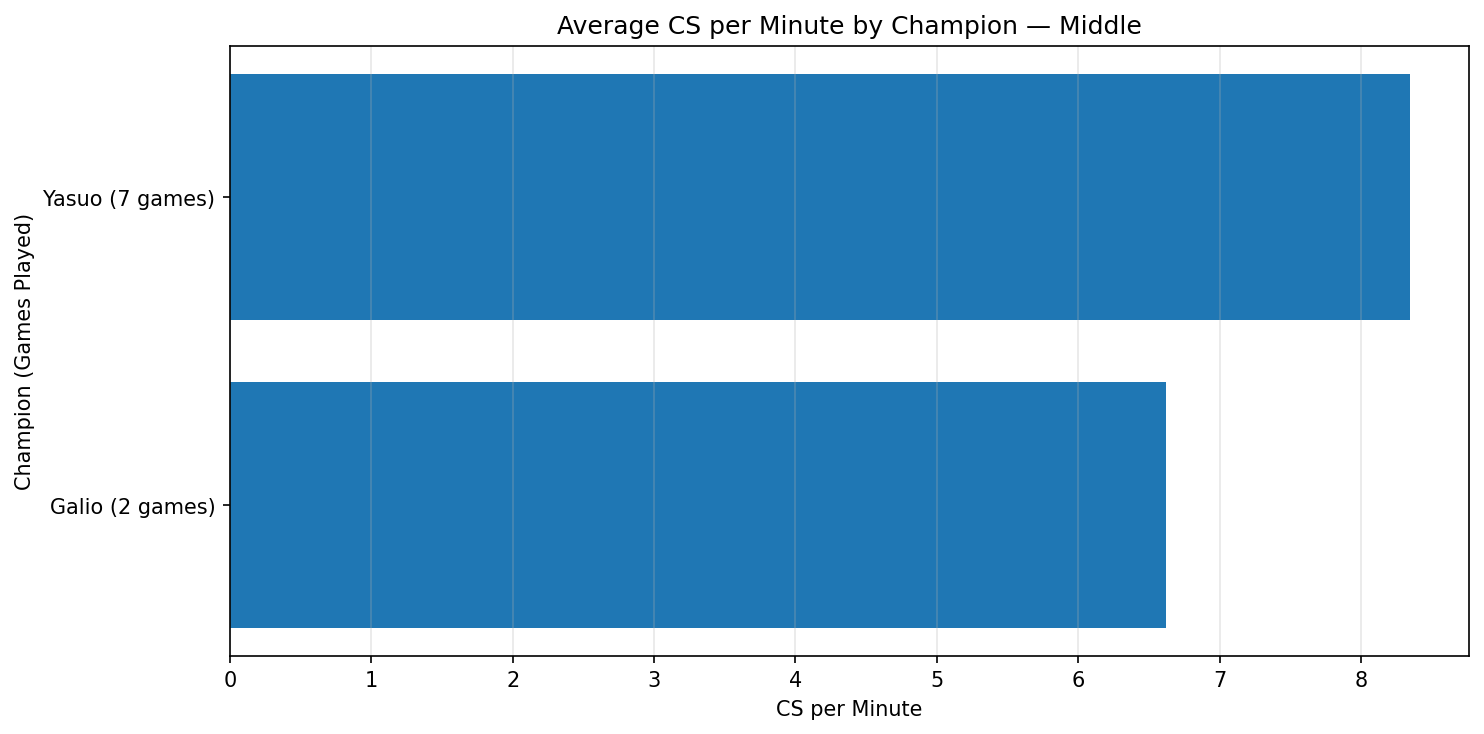
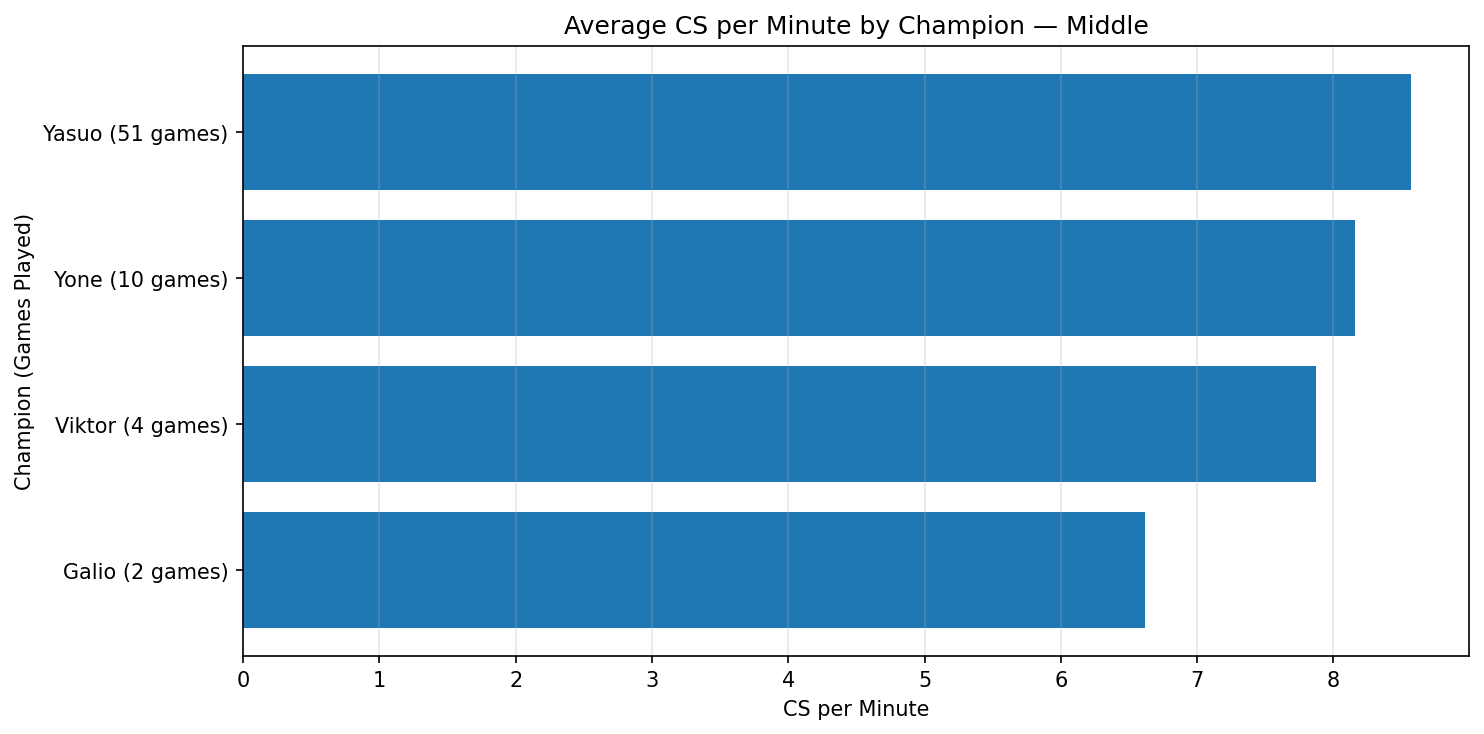
Update analysis for 100 ranked matches

diff --git a/import_ranked_matches.py b/import_ranked_matches.py
@@ -21,6 +21,27 @@ if not api_key:
     raise ValueError("API key not found. Check your .env file.")
 
 headers = {"X-Riot-Token": api_key}
+def riot_get(url, **kwargs):
+    while True:
+        response = requests.get(url, **kwargs)
+
+        if response.status_code == 429:
+            retry_after = response.headers.get("Retry-After", "120")
+
+            try:
+                wait_seconds = float(retry_after)
+            except ValueError:
+                wait_seconds = 120
+
+            print(
+                f"Rate limit reached. Waiting "
+                f"{wait_seconds:.0f} seconds before retrying..."
+            )
+            time.sleep(wait_seconds)
+            continue
+
+        response.raise_for_status()
+        return response
 base_url = "https://americas.api.riotgames.com"
 
 # Account to analyze
@@ -31,7 +52,7 @@ tag_line = "Yasuo"
 RANKED_SOLO_QUEUE = 420
 
 # How many ranked games we want to save
-TARGET_MATCHES = 20
+TARGET_MATCHES = 100
 
 
 # --------------------------------------------------
@@ -42,7 +63,7 @@ account_url = (
     f"{quote(game_name, safe='')}/{quote(tag_line, safe='')}"
 )
 
-response = requests.get(
+response = riot_get(
     account_url,
     headers=headers,
     timeout=20
@@ -68,7 +89,7 @@ while len(ranked_matches) < TARGET_MATCHES:
         f"{base_url}/lol/match/v5/matches/by-puuid/{puuid}/ids"
     )
 
-    response = requests.get(
+    response = riot_get(
         matches_url,
         headers=headers,
         params={
@@ -91,7 +112,7 @@ while len(ranked_matches) < TARGET_MATCHES:
 
         match_url = f"{base_url}/lol/match/v5/matches/{match_id}"
 
-        response = requests.get(
+        response = riot_get(
             match_url,
             headers=headers,
             timeout=20

diff --git a/plot_win_rate.py b/plot_win_rate.py
@@ -31,7 +31,7 @@ else:
     # Calculate win-rate trends
     df["cumulative_win_rate"] = df["win"].expanding().mean() * 100
     df["rolling_win_rate"] = (
-        df["win"].rolling(window=10, min_periods=10).mean() * 100
+        df["win"].rolling(window=20, min_periods=20).mean() * 100
     )
 
     # Create the chart
@@ -47,7 +47,7 @@ else:
     ax.plot(
         range(1, len(df) + 1),
         df["rolling_win_rate"],
-        label="Rolling 10-Game Win Rate",
+        label="Rolling 20-Game Win Rate",
         marker="o",
         linewidth=2
     )
